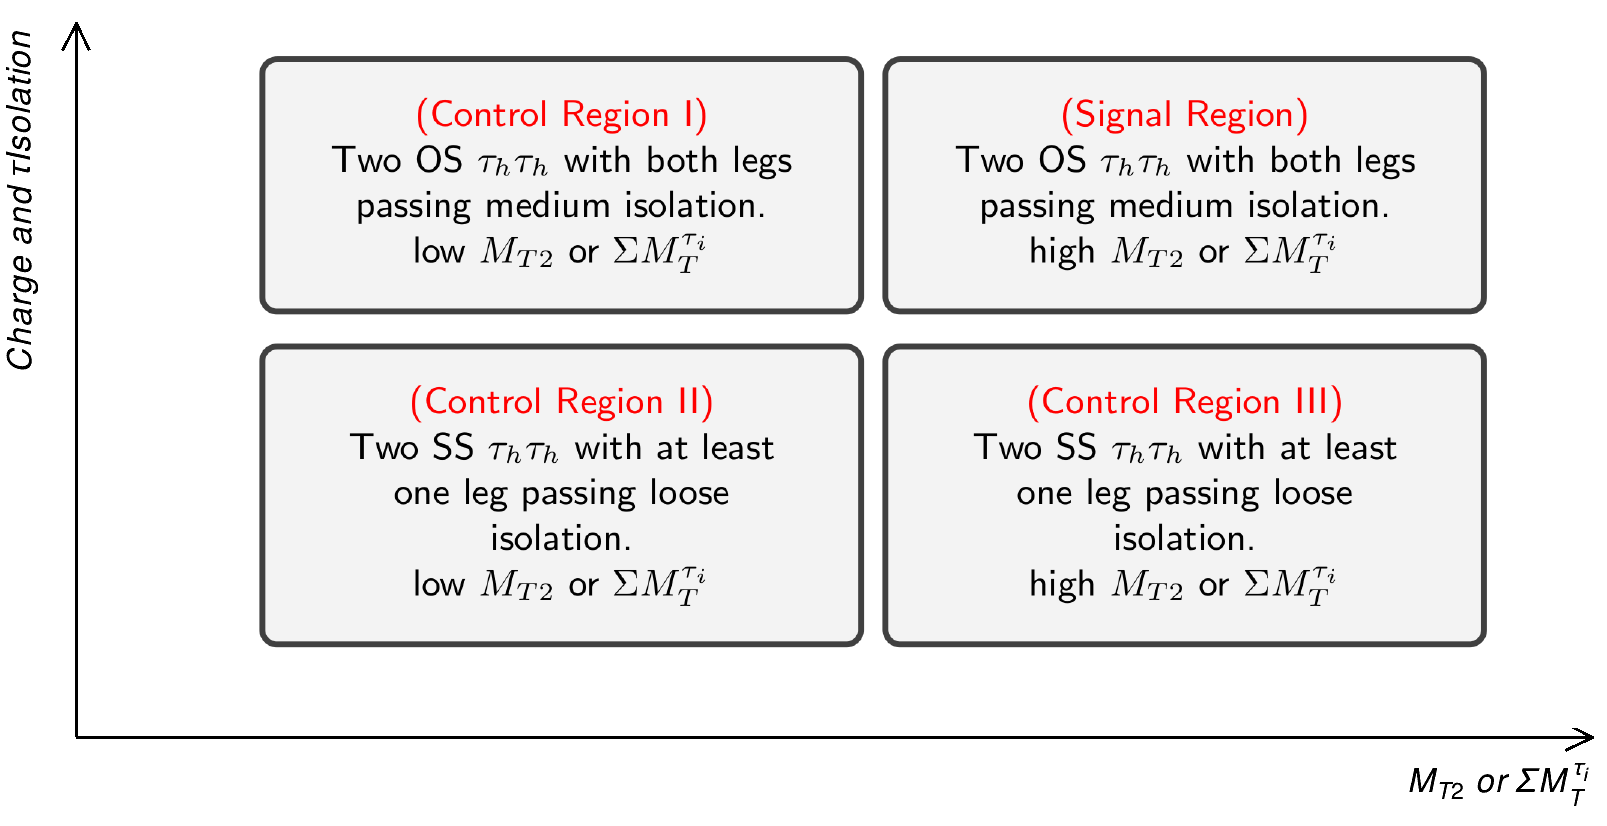
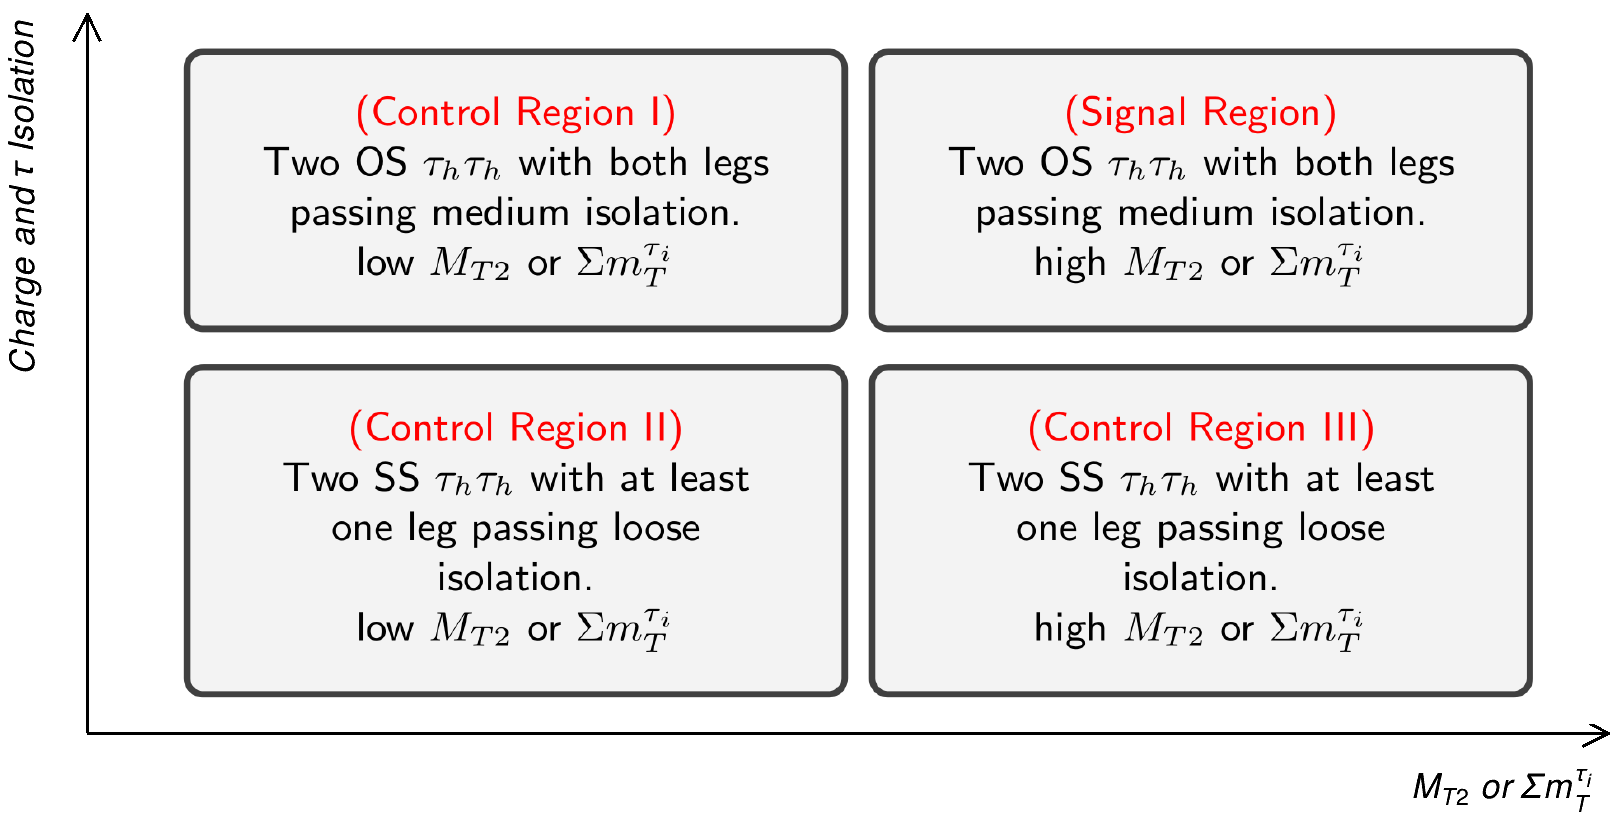
New version of ABCD figure

Changed region(s): [[0.0933, 0.0608, 0.9645, 0.8505], [0.0, 0.0304, 0.9956, 0.9721]]

diff --git a/notes/SUS-14-022/trunk/Bkg/ABCD/ABCD.tex b/notes/SUS-14-022/trunk/Bkg/ABCD/ABCD.tex
@@ -10,14 +10,14 @@
 \begin{center}
 \color{red} (Control Region I) \\
 \color{black} Two OS $\tau_{h}\tau_{h}$ with both legs passing medium isolation.\\
-low $M_{T2}$ or $\Sigma M_T^{\tau_i}$
+low $M_{T2}$ or $\Sigma m_T^{\tau_i}$
 \end{center}
 \end{tcolorbox}
 \begin{tcolorbox}
 \begin{center}
 \color{red} (Control Region II) \\
 \color{black} Two SS $\tau_{h}\tau_{h}$ with at least one leg passing loose isolation.\\
-low $M_{T2}$ or $\Sigma M_T^{\tau_i}$
+low $M_{T2}$ or $\Sigma m_T^{\tau_i}$
 \end{center}
 \end{tcolorbox}
 \column{0.40\paperwidth}
@@ -25,14 +25,14 @@ low $M_{T2}$ or $\Sigma M_T^{\tau_i}$
 \begin{center}
 \color{red} (Signal Region) \\
 \color{black} Two OS $\tau_{h}\tau_{h}$ with both legs passing medium isolation.\\
-high $M_{T2}$ or $\Sigma M_T^{\tau_i}$
+high $M_{T2}$ or $\Sigma m_T^{\tau_i}$
 \end{center}
 \end{tcolorbox}
 \begin{tcolorbox}
 \begin{center}
 \color{red} (Control Region III) \\
 \color{black} Two SS $\tau_{h}\tau_{h}$ with at least one leg passing loose isolation.\\
-high $M_{T2}$ or $\Sigma M_T^{\tau_i}$
+high $M_{T2}$ or $\Sigma m_T^{\tau_i}$
 \end{center}
 \end{tcolorbox}
 \end{columns}

diff --git a/notes/SUS-14-022/trunk/Bkg/ABCD/ABCD2.C b/notes/SUS-14-022/trunk/Bkg/ABCD/ABCD2.C
@@ -29,11 +29,11 @@ void ABCD2()
    arrow->SetLineWidth(3);
    arrow->SetAngle(54);
    arrow->Draw();
-   TLatex *   tex = new TLatex(0.8306358,0.1412826,"M_{T2}\\;or\\;\\Sigma M_T^{\\tau_i}");
+   TLatex *   tex = new TLatex(0.8306358,0.1412826,"M_{T2}\\;or\\;\\Sigma m_T^{\\tau_i}");
    tex->SetTextSize(0.04);
    tex->SetLineWidth(2);
    tex->Draw();
-   tex = new TLatex(0.05317919,0.7715431,"Charge\\;and \\; \\tau Isolation");
+   tex = new TLatex(0.05317919,0.7715431,"Charge\\;and \\; \\tau\\; Isolation");
    tex->SetTextAlign(22);
    tex->SetTextSize(0.04);
    tex->SetTextAngle(90);
